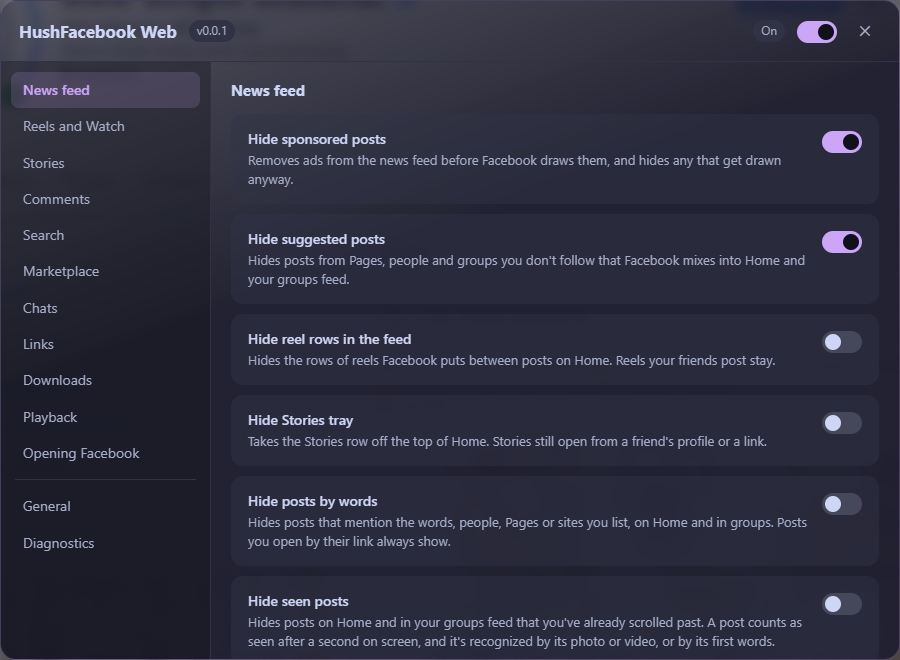
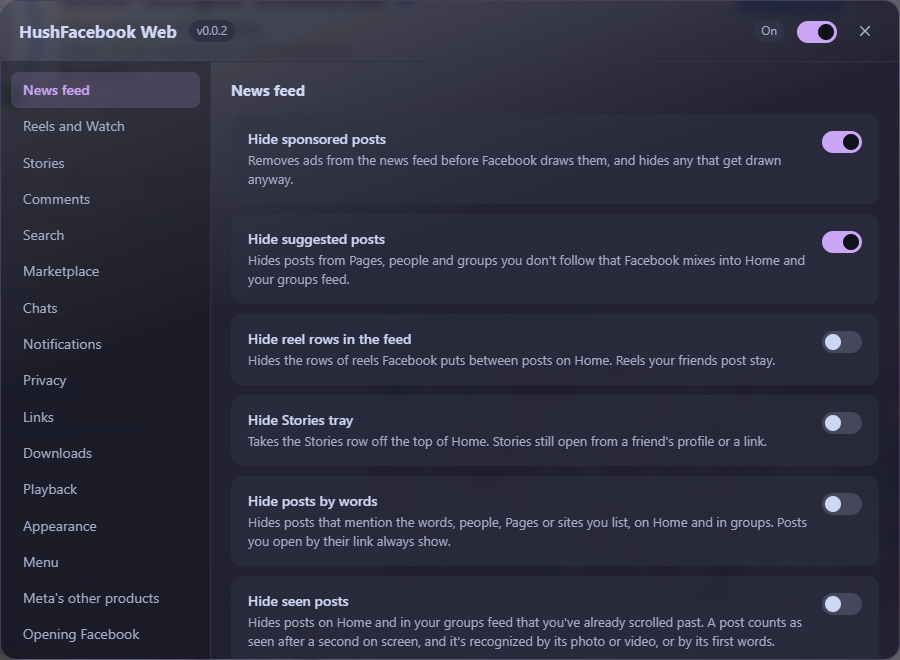
chore(release): v0.0.2
Version strings to 0.0.2, the CHANGELOG section dated, and the panel screenshots taken again from this build.

diff --git a/README.md b/README.md
@@ -1,7 +1,7 @@
 ![HushFacebook Web. A quieter Facebook feed.](assets/readme-hero.png)
 
 <p>
-  <img src="https://img.shields.io/badge/version-0.0.1-CBA6F7" alt="Version 0.0.1">
+  <img src="https://img.shields.io/badge/version-0.0.2-CBA6F7" alt="Version 0.0.2">
   <a href="LICENSE"><img src="https://img.shields.io/badge/license-MIT-blue" alt="License MIT"></a>
   <img src="https://img.shields.io/badge/platform-userscript-1877F2" alt="Platform userscript">
   <img src="https://img.shields.io/badge/for-Tampermonkey%20%7C%20Violentmonkey-00485B" alt="For Tampermonkey or Violentmonkey">
@@ -19,7 +19,7 @@ HushFacebook Web is a userscript for Facebook in a desktop browser. It's the web
 
 ## Where it stands
 
-This is the very start. Version 0.0.1 is the first release.
+It's still early. Version 0.0.2 is the second release.
 
 It has the groundwork in place, meaning the settings panel and the layer that reads Facebook's data as it loads, plus these features:
 

diff --git a/CHANGELOG.md b/CHANGELOG.md
@@ -1,6 +1,6 @@
 # Changelog
 
-## Unreleased
+## v0.0.2 (2026-10-11)
 
 * Checked in Violentmonkey on Chrome as well as Tampermonkey. The script starts in the page, takes Marketplace and search ads out before Facebook sees them, gives Copy link the post's own address and keeps a story view to yourself, the same as in Tampermonkey.
 * The tests now run against scrubbed copies of what Facebook really sends: a feed page, the home page's inline feed data, a Marketplace page with an ad card, a search page with an ad, and the request that marks a story as seen. A new script turns a raw capture into one of these fixtures, replacing ids, names, places, text, tokens and links with stand-ins keyed by a private key, and a test checks every fixture for leftover ids, tokens, places and addresses.
